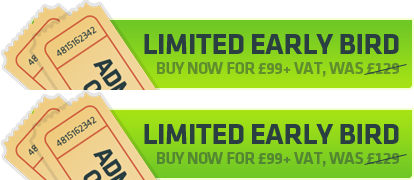
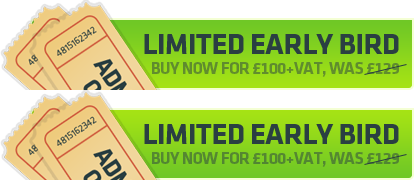
Tickets on sale! YAy!

Changed region(s): [[0.3478, 0.8333, 0.7246, 0.9167], [0.3478, 0.3333, 0.7246, 0.4167]]

diff --git a/css/base.css b/css/base.css
@@ -83,6 +83,7 @@ ul {
 }
 
 .box {
+  display: block;
   padding: 20px;
   margin-top: 20px;
   background: #c8f1ed;
@@ -542,7 +543,7 @@ body.speakers #speakers ul li#alex h3 span {
 }
 
 body.speakers #speakers ul li#paul h3 span {
-  width: 180px;
+  width: 10px;
   background-position: 0 -336px;
 }
 
@@ -554,6 +555,14 @@ body.speakers #speakers ul li#jan h3 span {
 body.speakers #speakers ul li#remy h3 span {
   width: 170px;
   background-position: 0 -403px;  
+}
+
+/* TICKETS ---------------------------------------------------------*/
+
+.tickets #tickets h2 {
+  background: url(../images/sprite.png) 0 -1544px;
+  height: 54px;
+  margin: 50px 0;
 }
 
 /* SCHEDULE ---------------------------------------------------------*/
@@ -568,28 +577,50 @@ body.speakers #speakers ul li#remy h3 span {
   display: none;
 }
 
-.schedule ol {
+.list ol {
   margin: 0;
 }
 
-.schedule ol li {
-  position: relative;
+.list ol li {
   overflow: hidden;
-  list-style: none;
-  padding: 15px;
+  list-style: none;  
   margin: 0 0 20px 0;
+  padding: 15px;
+  position: relative;
   background: #FFF;
   border-color: #FFF;
 }
 
-.schedule ol li.speaker,
-.schedule ol li.remark {
+.list ol li.link {
+  padding: 0;
+}
+
+.list ol li > a {
+  text-decoration: none;
+  overflow: hidden;
+  display: block;
+  background: transparent;
+  border-color: #FFF;
+  margin-top: 0;
+  padding: 15px;
+}
+
+.list ol li.link:hover {
+  cursor: pointer;
+  -webkit-box-shadow: 0 1px 10px rgba(0,0,0,.75);
+  -moz-box-shadow: 0 1px 10px rgba(0,0,0,.75);
+  -o-box-shadow: 0 1px 10px rgba(0,0,0,.75);
+  box-shadow: 0 1px 10px rgba(0,0,0,.75);  
+}
+
+.list ol li.speaker,
+.list ol li.remark {
   background: #c8f1ed;
   border: 1px solid transparent;
   border-top-color: #e4f8f6;
 }
 
-.schedule ol li.speaker:hover {
+.list ol li.speaker:hover {
   cursor: pointer;
   -webkit-box-shadow: 0 1px 10px rgba(0,0,0,.75);
   -moz-box-shadow: 0 1px 10px rgba(0,0,0,.75);
@@ -597,13 +628,13 @@ body.speakers #speakers ul li#remy h3 span {
   box-shadow: 0 1px 10px rgba(0,0,0,.75);
 }
 
-.schedule ol li img {
+.list ol li img {
   position: absolute;
   left: 6px;
   top: 6px;
 }
 
-.schedule ol li h3 {
+.list ol li h3 {
   float: left;
   margin: 0 0 0 60px;
   line-height: 28px;
@@ -612,42 +643,42 @@ body.speakers #speakers ul li#remy h3 span {
   font-style: italic;
 }
 
-.schedule ol li h3 span {
+.list ol li h3 span {
   font-size: 16px;
   font-style: normal;
   color: #478A85;
   margin-left: 10px;
 }
 
-.schedule ol li h4 {
+.list ol li h4 {
   float: right;
   margin: 0;
   line-height: 28px;
 }
 
-.schedule ol li div {
+.list ol li div {
   clear: left;
   margin: 60px 0 0 60px;
 }
 
-.schedule ol li.break {
+.list ol li.break {
   cursor: default;
   background: #fff url(../images/sprite.png) 0 0;
 }
 
-.schedule ol li.registration {
+.list ol li.registration {
   background-position: 6px -910px;
 }
 
-.schedule ol li.coffee {
+.list ol li.coffee {
   background-position: 6px -1012px;
 }
 
-.schedule ol li.lunchtime {
+.list ol li.lunchtime {
   background-position: 6px -863px;
 }
 
-.schedule ol li.party {
+.list ol li.party {
   background-position: 6px -958px;
 }
 
@@ -1374,32 +1405,32 @@ a h2 {
     background-position: 100% -90px;
   }
   
-  .schedule ol li {
+  .list ol li {
     margin-bottom: 10px;
     padding: 5px;
     padding-right: 10px;
     min-height: 30px;
   }
   
-  .schedule ol li h3 {
+  .list ol li h3 {
     font-size: 18px;
   }
   
-  .schedule ol li h3 span {
+  .list ol li h3 span {
     display: block;
     margin-left: 0;
     font-size: 14px;
   }
   
-  .schedule ol li div {
+  .list ol li div {
     clear: both;
   }
   
-  .schedule ol li div p:last-child {
+  .list ol li div p:last-child {
     padding-bottom: 10px;
   }
   
-  .schedule ol li.party span {
+  .list ol li.party span {
     display: none;
   }
   
@@ -1408,19 +1439,19 @@ a h2 {
     display: block;
   }
   
-  .schedule ol li.registration {
+  .list ol li.registration {
     background-position: 6px -920px;
   }
 
-  .schedule ol li.coffee {
+  .list ol li.coffee {
     background-position: 6px -1022px;
   }
 
-  .schedule ol li.lunchtime {
+  .list ol li.lunchtime {
     background-position: 6px -873px;
   }
 
-  .schedule ol li.party {
+  .list ol li.party {
     background-position: 6px -968px;
   }
 

diff --git a/includes/schedule.php b/includes/schedule.php
@@ -1,4 +1,4 @@
-<article id="schedule">
+<article id="schedule" class="list">
 
   <h2><span>The Schedule</span></h2>
  
@@ -56,14 +56,12 @@
       </div>
     </li>
     <li class="box speaker">
-      <h3>Building a game engine for the web <span>Paul Bakaus</span></h3>
+      <h3>High performance browser games <span>Paul Bakaus</span></h3>
       <h4>14.55 &ndash; 15.40</h4>
       <img src="/images/speakers/paul_schedule.jpg" width="48" height="48" alt="Paul Bakaus" title="Paul Bakaus" />
       <div>
-        <p>There's a multitude of professional game engines out there for consoles, PC and mobile handhelds. However, there's one big empty gap even in 2010: Not a single game engine targets desktop and mobile browsers natively without the use of plugins.</p>
-
-        <p>In this session, you will learn about the challenges of building pure browser based gaming engine, how web programming concepts like event-driven architecture need to be considered and what it means to fully utilize the open web stack – HTML5, client- and serverside JavaScript, External Stylesheets and of course, Canvas to squeeze every millisecond of rendering time. We'll take apart modules of our own upcoming Aves Engine for isometric real-time games and give you a very solid idea what needs to be done to build graphically rich, real-time, full featured games for the web.</p>
-        
+        <p>Graphically intensive and fast paced browser games written in pluginless JavaScript largely do not exist yet, for a very specific reason – performance issues.</p>
+        <p>Only recently, browser engines started to give us enough quirks and hacks to power full motion graphics, animation and real time interaction. With unprecedented depth, you'll learn why Canvas isn't the obvious choice, why you should write JavaScript in front- and backend, why HTML5 really is just a buzzword and how to leverage CSS hardware accelerated to create true platform independent games. Dive in to the world of JavaScript gaming!</p>
       </div>
     </li>
     <li class="box coffee break">
@@ -82,7 +80,7 @@
 
         <p>Two web technologies are ushering in the next generation of mobile apps: widgets and device APIs. As self-contained web apps, widgets significantly improve user experience. Device APIs do more than extend web apps to mobile devices. They allow access to native device sensors, like the accelerometer and camera, and to data such as photos and contacts. By adding widgets and device APIs to your toolbox, you can start building sophisticated mobile apps now.</p>
 
-        <p>In this session, PhoneGap hacker Brian LeRoux will guide you through the step-by-step creation of a W3C widget. He'll show you how to combine it with device APIs and deploy it using the PhoneGap open source framework. Don't miss this session to learn how to develop for the mobile web of the future, today</p>
+        <p>In this session, PhoneGap hacker Brian LeRoux will guide you through the step-by-step creation of a W3C widget. He'll show you how to combine it with device APIs and deploy it using the PhoneGap open source framework. Learn how to develop for the mobile web of the future, today.</p>
       </div>
     </li>
     <li class="box speaker">

diff --git a/includes/workshops.php b/includes/workshops.php
@@ -10,7 +10,7 @@
         <p><strong>Venue: </strong><a href="http://maps.google.com/maps?ie=UTF8&amp;q=Clarendon+Centre,+47+New+England+Street,+Brighton,+BN1+4GQ&amp;fb=1&amp;hq=Clarendon+Centre,&amp;hnear=47+New+England+St,+Brighton,+East+Sussex+BN1+4GQ,+UK&amp;cid=0,0,11375547332142987517&amp;ei=1CI_TPbTNo-SjAfh8uS2Bw&amp;ved=0CBYQnwIwAA&amp;z=16&amp;iwloc=A">Clarendon Centre, 47 New England Street, Brighton, BN1 4GQ</a></p>
         <p><strong>Date: </strong> Thursday 11th November, 9:30am to 5:00pm</p>
         <p><strong>Price: </strong> £345+VAT (includes conference day pass)</p>
-        <p><span class="button"><a href="#">Tickets available soon</a></span></p>
+        <p><span class="button"><a href="/tickets#html5">Buy your ticket now</a></span></p>
       </div>
       <div>
         <h4>Workshop Details</h4>
@@ -41,7 +41,7 @@
         <p><strong>Venue: </strong><a href="http://maps.google.com/maps?ie=UTF8&amp;q=Clarendon+Centre,+47+New+England+Street,+Brighton,+BN1+4GQ&amp;fb=1&amp;hq=Clarendon+Centre,&amp;hnear=47+New+England+St,+Brighton,+East+Sussex+BN1+4GQ,+UK&amp;cid=0,0,11375547332142987517&amp;ei=1CI_TPbTNo-SjAfh8uS2Bw&amp;ved=0CBYQnwIwAA&amp;z=16&amp;iwloc=A">Clarendon Centre, 47 New England Street, Brighton, BN1 4GQ</a></p>
         <p><strong>Date: </strong> Thursday 11th November, 9:30am to 5:00pm</p>
         <p><strong>Price: </strong> £345+VAT (includes conference day pass)</p>
-        <p><span class="button"><a href="#">Tickets available soon</a></span></p>
+        <p><span class="button"><a href="/tickets#phonegap">Buy your ticket now</a></span></p>
       </div>
       <div>
         <h4>Workshop Details</h4>

diff --git a/includes/venue.php b/includes/venue.php
@@ -35,7 +35,7 @@
     <ul>
       <li>
         <h4><a href="http://brightonhotels.jurysinns.com/">Jury's Inn</a> <span class="price">&ndash; from £70 per night (normally £88)</span></h4>
-        <p><a href="http://twitter.com/fullfrontalconf">Follow us</a> for a booking code</p>
+        <p>Discount code: <strong>LEFT121110</strong><br /><small>(needs to be booked over the phone)</small></p>
         <p>101 Stroudley Road, Brighton, BN1 4DJ</p>
         <a href="http://brightonhotels.jurysinns.com"><img src="/images/hotels/jurysinn.jpg" width="100" height="59" alt="Jury's Inn" title="Jury's Inn" /></a>
       </li>

diff --git a/includes/header.php b/includes/header.php
@@ -25,10 +25,10 @@
         <h1>Full Frontal</h1>
         <h2>JavaScript Conference</h2>
       </a>
-      <div id="tickets" class="soon">
-        <!-- <a href="#"> -->
-          <h3>Tickets available soon</h3> 
-        <!-- </a> -->
+      <div id="tickets" class="earlybird">
+        <a href="/tickets#dayconf">
+          <h3>Limited early bird tickets @ £100+VAT</h3> 
+        </a>
       </div>
     </div>
   </header>
